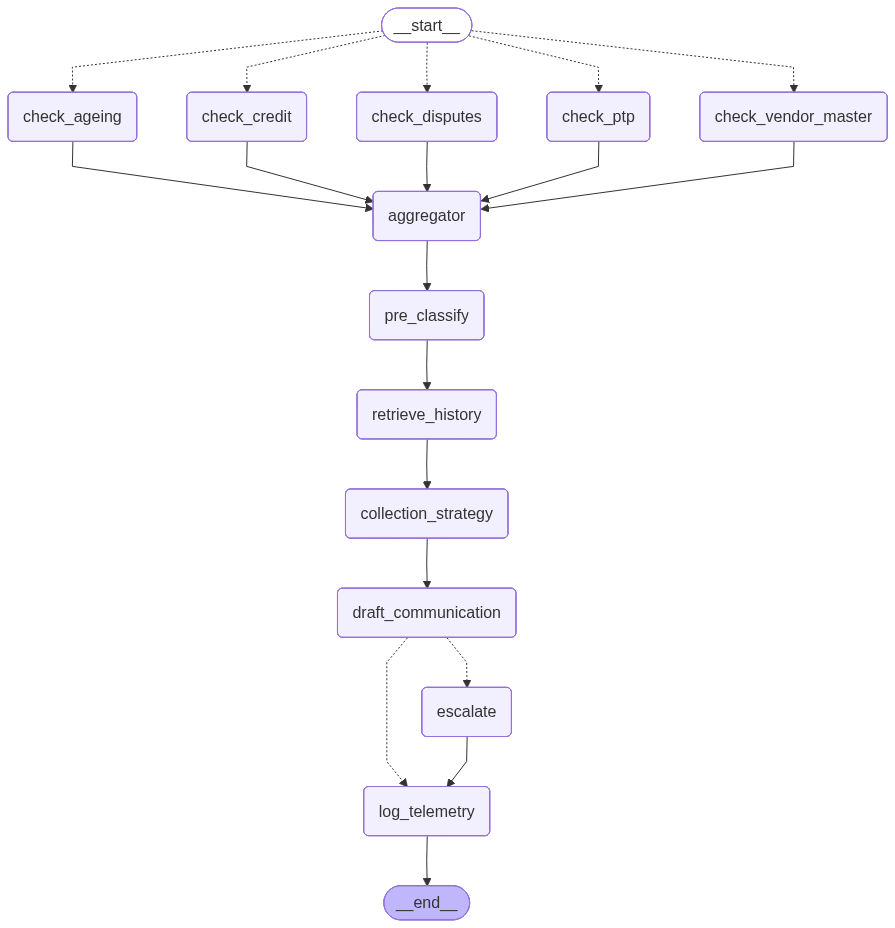
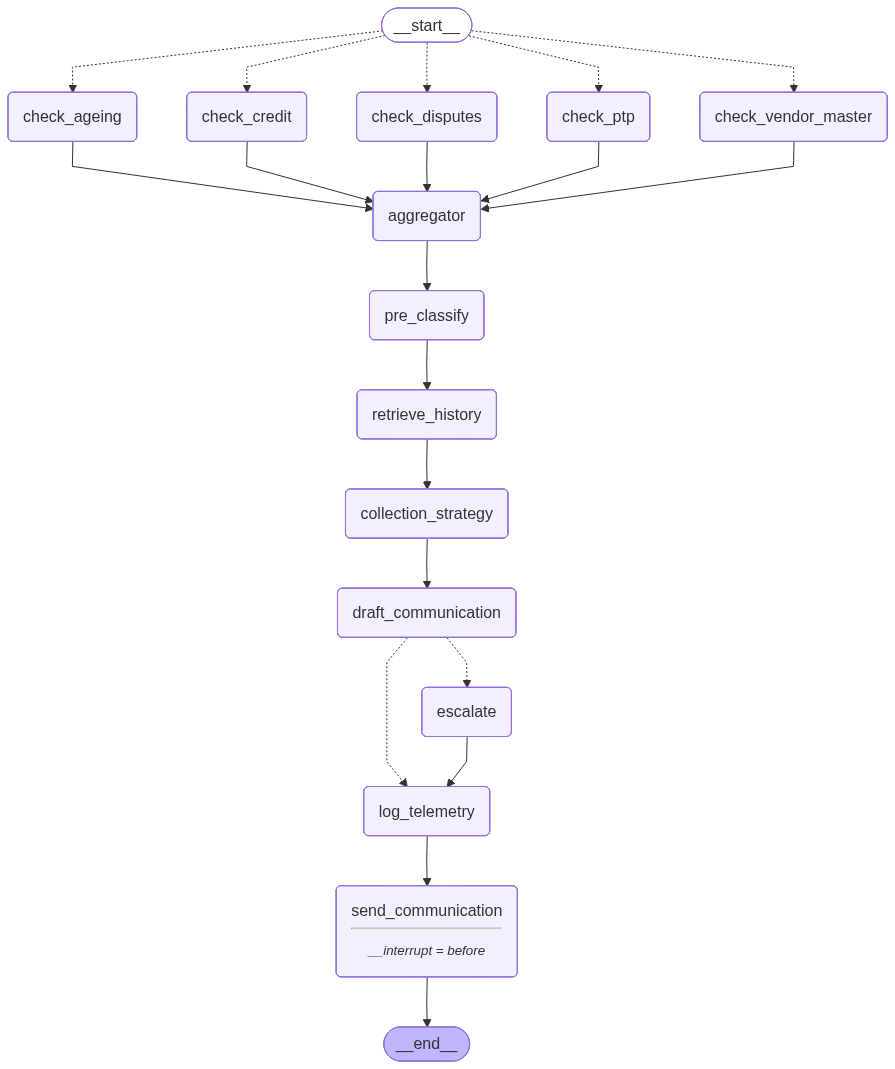
chore: add dev iterations, helper scripts, interview notes; update gitignore for checkpointer/db files; CPU-torch docker requirements

Changed region(s): [[0.2112, 0.0, 0.724, 1.0], [0.7844, 0.0625, 0.9955, 0.1875], [0.0, 0.0625, 0.1508, 0.1875]]

diff --git a/agent/create_synthetic_data.py b/agent/create_synthetic_data.py
@@ -1,0 +1,84 @@
+import pandas as pd
+from datetime import datetime, timedelta
+
+# ============================================================
+# create_synthetic_data.py
+# Generates 5 synthetic CSV files for Collections AI Agent UAs
+# Honeywell = HIGH risk, Siemens = LOW risk, others = mixed
+# ============================================================
+
+vendors = ["Siemens", "Honeywell", "ABB", "Bosch", "Schneider"]
+
+# ── 1. PTP HISTORY ──────────────────────────────────────────
+ptp_data = {
+    "vendor":           ["Siemens",    "Siemens",    "Honeywell",  "Honeywell",  "Honeywell",  "ABB",        "ABB",        "Bosch",      "Bosch",      "Schneider"],
+    "promise_date":     ["2026-01-10", "2026-02-15", "2026-01-05", "2026-02-10", "2026-03-15", "2026-01-20", "2026-02-25", "2026-01-15", "2026-02-20", "2026-02-10"],
+    "promised_amount":  [500000,       750000,       1200000,      980000,       1100000,      750000,       620000,       320000,       290000,       890000],
+    "actual_pay_date":  ["2026-01-09", "2026-02-14", "2026-01-25", "2026-03-05", "2026-04-10", "2026-01-22", "2026-03-10", "2026-01-18", "2026-02-19", "2026-02-25"],
+    "broken_flag":      [False,        False,        True,         True,         True,         False,        True,         False,        False,        False],
+}
+df_ptp = pd.DataFrame(ptp_data)
+df_ptp.to_csv("agent/ptp_history.csv", index=False)
+print("✅ ptp_history.csv created")
+print(df_ptp.to_string(index=False))
+
+# ── 2. DISPUTE HISTORY ──────────────────────────────────────
+dispute_data = {
+    "vendor":         ["Honeywell",  "Honeywell",  "ABB",        "Bosch",      "Schneider",  "Siemens"],
+    "dispute_id":     ["D001",       "D002",       "D003",       "D004",       "D005",       "D006"],
+    "dispute_type":   ["Pricing",    "Quality",    "Delivery",   "Duplicate Invoice", "Pricing", "Quality"],
+    "amount":         [250000,       180000,       95000,        320000,       140000,       60000],
+    "status":         ["Open",       "Open",       "Pending",    "Resolved",   "Pending",    "Resolved"],
+    "raised_date":    ["2026-03-10", "2026-04-01", "2026-02-15", "2026-01-20", "2026-03-25", "2026-01-05"],
+}
+df_disputes = pd.DataFrame(dispute_data)
+df_disputes.to_csv("agent/dispute_history.csv", index=False)
+print("\n✅ dispute_history.csv created")
+print(df_disputes.to_string(index=False))
+
+# ── 3. CREDIT BALANCE ───────────────────────────────────────
+credit_data = {
+    "vendor":             ["Siemens",  "Honeywell", "ABB",     "Bosch",   "Schneider"],
+    "credit_limit":       [2000000,    2000000,     1500000,   1000000,   1500000],
+    "current_exposure":   [600000,     1900000,     900000,    650000,    1200000],
+    "utilisation_pct":    [30.0,       95.0,        60.0,      65.0,      80.0],
+}
+df_credit = pd.DataFrame(credit_data)
+df_credit.to_csv("agent/credit_balance.csv", index=False)
+print("\n✅ credit_balance.csv created")
+print(df_credit.to_string(index=False))
+
+# ── 4. VENDOR MASTER ────────────────────────────────────────
+vendor_master_data = {
+    "vendor":              ["Siemens",   "Honeywell", "ABB",       "Bosch",     "Schneider"],
+    "tier":                ["Strategic", "At-Risk",   "Preferred", "Preferred", "Standard"],
+    "payment_score":       [85,          35,          65,          70,          58],
+    "avg_days_to_pay":     [28,          67,          42,          32,          44],
+    "country":             ["Germany",   "USA",       "Switzerland","Germany",  "France"],
+    "relationship_years":  [8,           5,           6,           10,          4],
+}
+df_vendor = pd.DataFrame(vendor_master_data)
+df_vendor.to_csv("agent/vendor_master.csv", index=False)
+print("\n✅ vendor_master.csv created")
+print(df_vendor.to_string(index=False))
+
+# ── 5. AGING BUCKETS ────────────────────────────────────────
+aging_data = {
+    "vendor":         ["Siemens",  "Honeywell", "ABB",    "Bosch",   "Schneider"],
+    "bucket_0_30":    [500000,     0,           750000,   320000,    890000],
+    "bucket_31_60":   [0,          0,           0,        0,         0],
+    "bucket_61_90":   [0,          1200000,     0,        0,         0],
+    "bucket_90_plus": [0,          0,           0,        0,         0],
+}
+df_aging = pd.DataFrame(aging_data)
+df_aging.to_csv("agent/aging_buckets.csv", index=False)
+print("\n✅ aging_buckets.csv created")
+print(df_aging.to_string(index=False))
+
+print("\n🎉 All 5 synthetic datasets created successfully!")
+print("Files saved to agent/ folder:")
+print("  → ptp_history.csv")
+print("  → dispute_history.csv")
+print("  → credit_balance.csv")
+print("  → vendor_master.csv")
+print("  → aging_buckets.csv")

diff --git a/agent/testsql.py b/agent/testsql.py
@@ -1,0 +1,28 @@
+import sqlite3
+import pandas as pd
+
+conn = sqlite3.connect("collections.db")
+conn.execute("DROP TABLE IF EXISTS agent_runs")
+conn.execute("""
+    CREATE TABLE agent_runs (
+        run_id INTEGER PRIMARY KEY AUTOINCREMENT,
+        vendor TEXT,
+        risk_rating TEXT,
+        timestamp TEXT,
+        tokens_used INTEGER,
+        model TEXT,
+        days_overdue INTEGER,
+        amount_tier TEXT,
+        overdue_flag INTEGER,
+        reasoning TEXT
+    )
+""")
+
+summary = pd.read_sql("""
+            SELECT * FROM agent_runs""",conn
+)
+
+print(summary)
+
+conn.commit()
+conn.close()

diff --git a/agent/csvcreator.py b/agent/csvcreator.py
@@ -1,0 +1,14 @@
+import pandas as pd
+
+credit_data = {
+            "vendor": ["Siemens","Honeywell","ABB","Bosch","Schneider"],
+            "credit_limit": [1500000,2000000,1000000,500000,650000],
+            "current_exposure": [600000,1500000,],
+            "utilisation_pct": [...]
+
+}
+
+df = pd.DataFrame(credit_data)
+df.to_csv("agent/credit_balance.csv", index=False)
+print("credit_balance.csv created")
+print(df)

diff --git a/agent/telemetry_logger.py b/agent/telemetry_logger.py
@@ -17,7 +17,11 @@ conn.execute("""
         risk_rating TEXT,
         timestamp TEXT,
         tokens_used INTEGER,
-        model TEXT
+        model TEXT,
+        days_overdue INTEGER,
+        amount_tier TEXT,
+        overdue_flag INTEGER,
+        reasoning TEXT
     )
 """)
 

diff --git a/agent/db_check.py b/agent/db_check.py
@@ -1,0 +1,9 @@
+import sqlite3
+conn = sqlite3.connect("collections.db")
+try:
+    conn.execute("ALTER TABLE agent_runs ADD COLUMN recommended_action TEXT")
+    conn.commit()
+    print("Column added successfully")
+except Exception as e:
+    print(f"Note: {e}")
+conn.close()

diff --git a/agent/interview_concepts.md b/agent/interview_concepts.md
@@ -1,0 +1,236 @@
+# Interview Concepts — Collections AI Agent
+*Aneesh — what you have built and how to defend it*
+
+---
+
+## 1. The Three Architectural Patterns
+
+**Pattern A — Workflow Orchestration (LangGraph):**
+Nodes execute in defined sequence. Each node has one responsibility. State flows through the graph. Same pattern as Airflow, Step Functions, Temporal — but with LLM calls inside nodes.
+
+**Pattern B — RAG (Retrieval Augmented Generation):**
+retrieve_history node queries vector store before decision node. Without RAG, LLMs are stateless. With RAG, they have institutional memory.
+
+**Pattern C — Rule + LLM Hybrid:**
+pre_classify is rules-based. collection_strategy is LLM-based. Rules are deterministic, cheap, instant, auditable. LLMs handle judgment-heavy cases that rules cannot encode.
+
+**Interview soundbite:**
+> "I use a hybrid architecture — deterministic rules for any decision that can be codified, LLM nodes only where genuine judgment is required. This reduces cost per invoice by approximately 60% versus a pure LLM approach while maintaining auditability that pure LLM systems cannot provide."
+
+---
+
+## 2. State Pattern (TypedDict)
+
+InvoiceState is the contract between agents — Data Schema Contract principle.
+
+Each node:
+- Receives the full state
+- Reads only what it needs
+- Returns only what it changes
+- Never breaks the contract
+
+Same principle as microservices API contracts.
+
+**Interview soundbite:**
+> "The TypedDict state acts as a contract between agent nodes. Each node touches only the fields relevant to its responsibility. This makes the system testable, debuggable, and extensible — adding a new utility agent does not require changing existing nodes."
+
+---
+
+## 3. Cosine Similarity Math
+
+```
+similarity = (A · B) / (|A| × |B|)
+
+A · B = dot product
+|A|, |B| = vector magnitudes
+Result: -1 (opposite) to 1 (identical)
+```
+
+**Why cosine over Euclidean:**
+Cosine measures direction not magnitude. Two documents about the same topic — one long one short — have similar direction but different magnitudes. Cosine ignores length differences.
+
+**Interview soundbite:**
+> "I implemented cosine similarity for semantic retrieval. The choice of cosine over Euclidean was deliberate — cosine measures vector direction independent of magnitude, which matters for text where document lengths vary significantly but semantic content is what matters for retrieval."
+
+---
+
+## 4. Embedding Limitation (Honest Framing)
+
+Used hash-based embeddings due to Windows compatibility issues.
+
+**The framing:**
+Hash embeddings are deterministic but not semantic. They prove RAG pipeline works end to end. Production swaps to sentence-transformers, OpenAI ada-002, or Anthropic embedding API.
+
+**Why this is a strength:**
+- You can speak to the tradeoff
+- Architecture decouples embedding from retrieval
+- Swap embedding function → no other code changes
+- This is good software design
+
+**Interview soundbite:**
+> "My current implementation uses hash embeddings for the proof of concept due to local Windows environment constraints. The architecture decouples embedding generation from retrieval logic — production deployment swaps the embedding function to sentence-transformers or Anthropic's embedding API without touching the retrieval code. That separation of concerns is what allows the system to evolve."
+
+---
+
+## 5. Conditional Edges (Decision Gates)
+
+route_by_risk function returns string that determines next node. Called Conditional Router or Decision Gate.
+
+**Why this matters:**
+Real business processes are not linear. Collections branches based on risk. Disputes branch based on type. Payments branch based on amount.
+
+**The pattern:**
+At every decision point in the human process, there should be a conditional edge in the agent.
+
+**Interview soundbite:**
+> "Conditional edges in LangGraph let me model real business decision gates. In my collections agent, the route_by_risk function reads the calculated risk score and routes HIGH risk invoices to an escalation node, while LOW and MEDIUM follow the standard telemetry path. Each conditional edge in my graph corresponds to a real decision a human would make in the manual process."
+
+---
+
+## 6. Telemetry Pattern (Audit Trail)
+
+log_telemetry writes every decision to SQLite. Non-negotiable in enterprise AI.
+
+**Why it matters:**
+- Compliance: every AI decision must be auditable
+- Improvement: telemetry feeds Observer Agent to detect patterns
+- Trust: customers see what AI did and why
+- Liability: trail proves human oversight
+
+**Interview soundbite:**
+> "Every agent decision is logged to a telemetry database with timestamp, model used, tokens consumed, and full reasoning. This serves three purposes — regulatory compliance, system improvement through pattern detection, and trust because every decision can be reconstructed and explained."
+
+---
+
+## 7. Agent Failure Modes & Mitigations
+
+| Failure Mode | Your Mitigation |
+|---|---|
+| Tool Failure (UA cannot read CSV) | try/except with safe defaults |
+| Hallucination (Claude invents data) | Rubric scoring forces grounded reasoning |
+| Loop Failure (agent gets stuck) | LangGraph recursion limits + END nodes |
+| Retrieval Failure (wrong context) | Similarity threshold + metadata filtering |
+| Cascade Failure (one node breaks all) | State-based independence + safe defaults |
+
+**Interview soundbite:**
+> "Production AI systems fail in specific ways. My architecture addresses each — try/except in tool nodes for graceful degradation, rubric-based prompts to ground LLM reasoning, explicit END states to prevent loops, and similarity thresholds in retrieval to filter noise. Failure mode awareness is what separates a demo from a production system."
+
+---
+
+## 8. Business Case Framing (DSO Reduction)
+
+```
+Manual process:
+- Senior collector handles 50-100 invoices/day
+- 15-20 minutes per decision
+- Data gathering across 5 systems
+
+Your agent:
+- 10,000 invoices per overnight batch
+- 2-3 seconds per decision
+- All 5 sources queried in parallel
+- Every decision logged
+
+Business impact:
+- ₹100 crore AR portfolio
+- 2-day DSO reduction
+- Releases ₹55 lakhs working capital annually
+- ₹4-6 lakhs recovered finance costs per year
+```
+
+**Interview soundbite:**
+> "The business case is simple. A senior collector handles 100 invoices per day with 20-minute decision time including data gathering. My agent handles 10,000 invoices in an overnight batch with 3-second decision time. For a ₹100 crore AR portfolio, a 2-day DSO reduction releases ₹55 lakhs in working capital annually — that is the ROI conversation, not a technology conversation."
+
+---
+
+## 9. LangChain vs LangGraph
+
+**LangChain:**
+Sequential chains. Linear execution. Works for simple LLM pipelines. No native state management. No persistence. No HITL. Good for prototypes.
+
+**LangGraph:**
+Graph-based execution. Conditional branching. Native state via TypedDict. Persistence via checkpointers. HITL via interrupts. Production grade.
+
+**Interview soundbite:**
+> "LangChain is sequential — fine for prototypes. LangGraph is graph-based which lets me model real business processes with branching, parallel execution, persistence across sessions, and human-in-the-loop interrupts. For collections workflows that need audit trails and human approval gates, LangGraph is the correct choice."
+
+---
+
+## 10. Orchestrator-Worker Pattern (Coming Next Week)
+
+```
+Without Orchestrator (current):
+check_ageing → check_disputes → check_ptp → ...
+All UAs run in sequence
+Total time = sum of UA times
+
+With Orchestrator:
+Orchestrator spawns all 5 UAs in parallel
+All UAs run simultaneously
+Total time = max of UA times (5x faster)
+```
+
+Same pattern as MapReduce — split, run parallel, combine.
+
+**Interview soundbite:**
+> "The Orchestrator-Worker pattern is what makes the system scale. Instead of running 5 utility agents sequentially, the orchestrator spawns them in parallel using LangGraph's Send API. For 10,000 invoices this changes runtime from 50 minutes to under 10 minutes. This is the same MapReduce pattern from distributed computing applied to agentic AI."
+
+---
+
+## 11. One Concept From Each AI Engineering Chapter
+
+**Ch 1 — Foundation models:**
+Using Claude Sonnet without fine-tuning. Right choice — fine-tuning is for narrow tasks. Collections has too much variability.
+
+**Ch 2 — Sampling:**
+temperature=0 for deterministic outputs. Critical for auditable decisions. Higher temperatures introduce variance that breaks compliance.
+
+**Ch 3 — Evaluation:**
+Rubric scoring as evaluation method. Each decision re-evaluable against same rubric to detect drift.
+
+**Ch 4 — Evaluating AI systems:**
+Telemetry layer = evaluation infrastructure. Every run logged. Patterns analyzed retrospectively.
+
+**Ch 5 — Prompt engineering:**
+Primacy and recency — rubric at top, output format at end. Structured output with explicit fields.
+
+**Ch 6 — RAG:**
+Both phases implemented — indexing (storing decisions) and retrieval (querying by similarity). Cosine over keyword matching.
+
+---
+
+## 12. The Unique Profile Pitch
+
+Most candidates have ONE of:
+- Strong domain knowledge (consultants)
+- Strong technical skills (engineers)
+- Strong MBA branding (B-school grads)
+
+**You have all three. The agent proves it.**
+
+**Your one-sentence pitch:**
+> "I am a consultant with six years of source-to-cash domain depth who has built an agentic AI system from scratch against a real collections P&L metric. I can scope agentic engagements at the partner level, design the architecture, and validate the technical work because I have done all three."
+
+That sentence ends the "engineer or consultant" debate before it starts.
+
+---
+
+## How to Use This
+
+1. Save this file in your project folder
+2. Read before any interview
+3. Connect each concept back to a specific file/commit in your GitHub
+4. Practice the soundbites out loud until they sound natural
+5. Update as you build more (Orchestrator, HITL, Observer Agent)
+
+---
+
+**Reference Files in Your Repo:**
+
+- `dev/langgraph_Day1.py` → Pattern progression starts here
+- `dev/langgraph_Day8.py` → Rubric scoring + recommended actions
+- `dev/langgraph_Day9.py` → RAG retrieve_history node
+- `agent/chromadb_setup.py` → Vector store implementation
+- `vector_store.json` → 20 stored decisions
+- `agent/graph_visualisation.png` → Visual proof of architecture
+- `collections.db` → Telemetry database with 36+ runs
